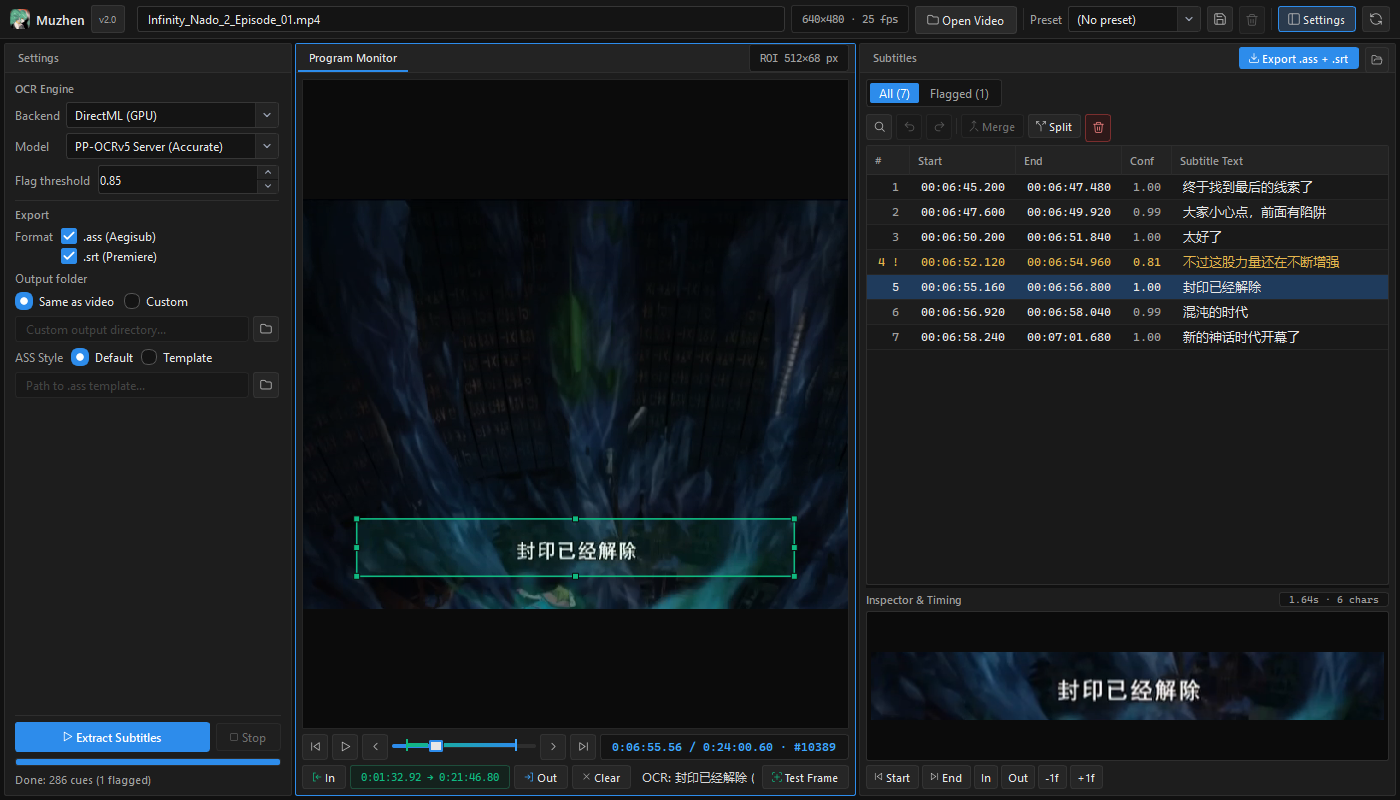
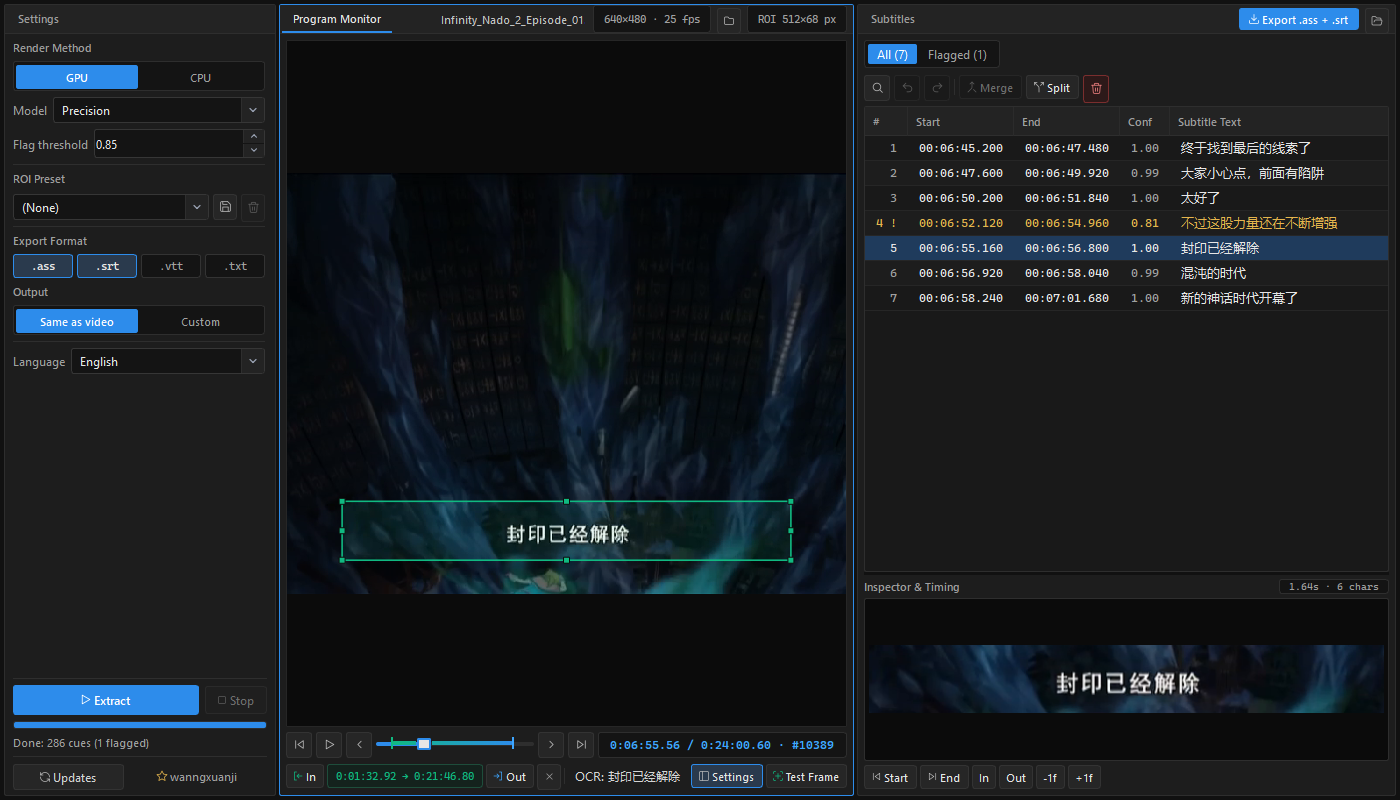
chore(release): prepare Muzhen v2.1.0 with chrome-free UI, multi-format export, and EN/VI/ZH i18n

diff --git a/src/muzhen/__init__.py b/src/muzhen/__init__.py
@@ -1,3 +1,3 @@
 """Muzhen desktop subtitle extraction package."""
 
-__version__ = "2.0.0"
+__version__ = "2.1.0"

diff --git a/README.md b/README.md
@@ -15,7 +15,7 @@
 
 <br>
 
-![Muzhen v2.0.0 Premiere/AE Workbench](docs/screenshots/muzhen-v2-workbench.png)
+![Muzhen v2.1.0 Premiere/AE Workbench](docs/screenshots/muzhen-v2-workbench.png)
 
 </div>
 
@@ -33,13 +33,13 @@ Generic OCR scripts routinely drift on NTSC frame rates (`23.976` / `29.97 fps`)
 
 ### Option 1 — Windows Portable Release (Recommended, No Python Required)
 
-1. Download **`Muzhen-v2.0.0-win64-portable.zip`** (and optional `SHA256SUMS.txt`) from [**GitHub Releases**](https://github.com/wanngxuanji/Muzhen/releases).
+1. Download **`Muzhen-v2.1.0-win64-portable.zip`** (and optional `SHA256SUMS.txt`) from [**GitHub Releases**](https://github.com/wanngxuanji/Muzhen/releases).
 2. Extract to any writable directory (for example `D:\Tools\Muzhen\`).
 3. Double-click **`Muzhen.exe`**.
 
 > **First-run OCR models:** On your first extraction (or `Test Frame`), Muzhen automatically downloads the selected `ch_PP-OCRv5` ONNX weights into the portable `models/` directory next to `Muzhen.exe` (falling back to `%LOCALAPPDATA%\Muzhen\models` if extracted to a read-only location). Subsequent runs work 100% offline.
 
-> **Built-in Update Checker:** Muzhen checks GitHub Releases silently in the background on startup (never blocking offline use) and shows a compact **Update** badge in the top bar whenever a newer version is published, with full release notes and **Update Now / Skip This Version / Later** controls. You can also trigger a check manually via the refresh icon in the top bar.
+> **Built-in Update Checker & Multi-Language UI:** Muzhen automatically detects your Windows language (**English / Tiếng Việt / 中文 (简体)**, switchable live in Settings) and checks GitHub Releases silently on startup, revealing a compact **Update** badge inside Settings with full release notes and **Update Now / Skip This Version / Later** controls.
 
 ### Option 2 — Run From Source (Developers)
 
@@ -83,14 +83,15 @@ powershell -ExecutionPolicy Bypass -File scripts\create_shortcut.ps1 -Desktop
 - **Stage 2 — Consensus Recognition & Multi-Cue Splitting:** Borderless `ch_PP-OCRv5 Server` (default) or `Mobile` (`fast`) recognition with interior-first adaptive early exit, confidence-weighted & character-level consensus voting, selective glare/brightness retry, bounded-stack multi-cue binary-search splitting, and minimal-pair / numeric countdown protection.
 - **Automatic DirectML GPU Acceleration:** Uses `onnxruntime-directml` on Windows GPUs with eager Stage 1 + Stage 2 session verification and seamless CPU fallback.
 
-### Premiere Pro / After Effects Docked Workbench
-- **3-Pane Horizontal Dock (`Settings | Program Monitor | Subtitles`):** Neutral graphite palette (`#111111` / `#161616` / `#1D1D1D`), collapsible Settings panel, Premiere-blue active-panel focus outline (`#2D8CEB`), and blue Program Monitor timecode + frame index (`0:06:55.56 / 0:24:00.60 · #10389`).
-- **Interactive Preview & OP/ED Trim:** Sequential `Play / Pause` (`Space`), hold-to-repeat stepping (`<` / `>`, `←` / `→`, `,` / `.`), VFR-safe single-frame step-back, drag-and-drop video loading, and `In` / `Out` (`I` / `O`) OP/ED trim preserving original absolute episode timestamps.
+### Premiere Pro / After Effects Chrome-Free Workbench
+- **3-Pane Horizontal Dock (`Settings | Program Monitor | Subtitles`):** Neutral graphite palette (`#111111` / `#161616` / `#1D1D1D`), zero wasted top-bar chrome (`Muzhen - V2.1.0`), collapsible Settings panel toggled right below the monitor, Premiere-blue active-panel focus outline (`#2D8CEB`), and blue Program Monitor timecode + frame index (`0:06:55.56 / 0:24:00.60 · #10389`).
+- **Streamlined Settings & Live 3-Language UI:** Auto-detected **GPU / CPU** Render Method, branded **Precision / Turbo** OCR models, inline ROI Presets, 4 format chips (`.ass`, `.srt`, `.vtt`, `.txt`), conditional **Custom** output folder, live **English / Tiếng Việt / 中文 (简体)** switching, and built-in GitHub Release update checker.
+- **Interactive Preview & OP/ED Trim:** Click or drag-and-drop directly onto Program Monitor to open episodes, sequential `Play / Pause` (`Space`), hold-to-repeat stepping (`<` / `>`, `←` / `→`, `,` / `.`), VFR-safe single-frame step-back, and `In` / `Out` (`I` / `O`) OP/ED trim preserving original absolute episode timestamps.
 - **Pro-Subber Review Table & QA Inspector:** Video↔Table Start/End sync (`Alt+S` / `Alt+E`), snap-to-playhead (`Ctrl+[` / `Ctrl+]`), exact `frame_pts_ms` `±1f` nudge (zero NTSC rounding drift), `flag_reason` QA banner with auto-clear on edit (`Ctrl+D`), multi-row delete, Merge (`Ctrl+M`), Split (`Ctrl+K`), 50-step Undo/Redo (`Ctrl+Z` / `Ctrl+Y`), and Find & Replace (`Ctrl+F` / `Ctrl+H`).
 
-### Aegisub & Adobe Premiere Pro Export
-- **Inter-Frame Midpoint Centisecond Snapping:** Verified against libass rendering semantics so exported `.ass` cues never start 1 frame late or bleed across hard scene cuts.
-- **Full Template Preservation:** Order-independent `.ass` template parser supporting UTF-8/UTF-16 templates, `[Fonts]` / `[Graphics]` uuencoded payload preservation, multi-style selector, `{}` & `\N` escaping, strict non-overlap clamping, identical `.ass` / `.srt` cue parity, and atomic file writes.
+### Multi-Format Export (`.ass`, `.srt`, `.vtt`, `.txt`)
+- **Aegisub & Premiere Parity:** Inter-frame midpoint centisecond snapping verified against libass rendering semantics so exported `.ass` cues never start 1 frame late or bleed across hard cuts, plus strict non-overlap clamping across `.ass`, `.srt`, and `.vtt`.
+- **Web & Translation Ready:** Export standards-compliant WebVTT (`.vtt`) for web players or clean single-line plain text (`.txt`) ready for translation workflows — all written atomically in UTF-8.
 
 ---
 
@@ -159,20 +160,23 @@ Muzhen/
 │   │   └── presets.py          # Atomic JSON preset persistence
 │   ├── exporters/
 │   │   ├── sanitize.py         # Libass midpoint snapping, escaping, atomic file writes
-│   │   ├── ass_exporter.py     # Order-independent .ass template parser & exporter
-│   │   └── srt_exporter.py     # Premiere Pro .srt exporter
+│   │   ├── ass_exporter.py     # Aegisub .ass exporter
+│   │   ├── srt_exporter.py     # Premiere Pro .srt exporter
+│   │   ├── vtt_exporter.py     # WebVTT .vtt exporter
+│   │   └── txt_exporter.py     # Plain-text .txt script exporter
 │   └── ui/
 │       ├── assets/             # Rounded muzhen.ico, muzhen_icon.png, crisp vector SVGs
+│       ├── i18n.py             # Live English / Vietnamese / Simplified Chinese translations
 │       ├── theme.py            # Adobe Premiere/AE graphite tokens & QSS
-│       ├── main_window.py      # 3-pane docked workbench, transport, async workers, UpdateDialog
+│       ├── main_window.py      # Chrome-free 3-pane workbench, transport, async workers, UpdateDialog
 │       ├── review_table.py     # Editable subtitle table, QA inspector, undo/redo, find/replace
-│       ├── roi_canvas.py       # Interactive ROI overlay & drag-and-drop monitor well
+│       ├── roi_canvas.py       # Interactive ROI overlay & clickable drop monitor well
 │       └── icons.py            # Crisp 1.5px vector SVG icon renderer
 ├── build/muzhen.spec           # PyInstaller --onedir build specification
 ├── scripts/
 │   ├── build_release.ps1       # Portable release builder + smoke test + SHA256
 │   └── create_shortcut.ps1     # One-click Windows Muzhen.lnk launcher generator
-├── tests/                      # Full pytest + pytest-qt suite (189 tests, -W error)
+├── tests/                      # Full pytest + pytest-qt suite (216 tests, -W error)
 └── .github/workflows/          # Windows CI (ci.yml) & tag-triggered GitHub Release (release.yml)
 ```
 

diff --git a/CHANGELOG.md b/CHANGELOG.md
@@ -5,6 +5,19 @@ All notable changes to this project will be documented in this file.
 The format is based on [Keep a Changelog](https://keepachangelog.com/en/1.1.0/),
 and this project adheres to [Semantic Versioning](https://semver.org/spec/v2.0.0.html).
 
+## [2.1.0] - 2026-11-28
+
+### Added
+- Multi-format export support: **`.vtt`** (WebVTT) and **`.txt`** (clean single-line plain-text script) alongside `.ass` and `.srt`.
+- Built-in **3-language interface (`English`, `Tiếng Việt`, `中文 (简体)`)** with automatic OS locale detection, instant live switching without restart, and persistent preference storage.
+- Click-to-open directly on the empty **Program Monitor** canvas.
+- Compact **Updates** and **`★ wanngxuanji`** GitHub Star footer inside the Settings panel.
+
+### Changed
+- Removed the redundant top bar chrome and moved version display into the native window title (`Muzhen - V2.1.0`), moving active video filename, resolution/FPS metadata, and the Open button into the **Program Monitor** header.
+- Relocated the collapsible **Settings** toggle inline with Program Monitor trim controls (`In | Full episode | Out | × | Settings | Test Frame`).
+- Streamlined the **Settings** panel: segmented **Render Method** (`GPU` / `CPU` with automatic GPU detection), branded **Model** selector (**`Precision`** / **`Turbo`**), inline **ROI Preset** row, 4 compact format chips (`.ass`, `.srt`, `.vtt`, `.txt`), conditional **Custom** output folder input, and removed legacy `ASS Style` controls.
+
 ## [2.0.0] - 2026-11-28
 
 ### Added
